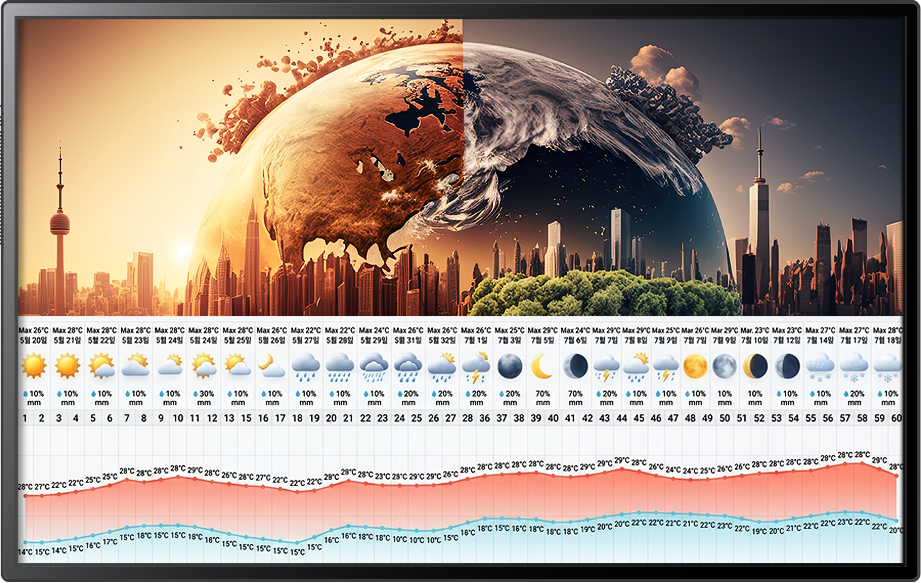
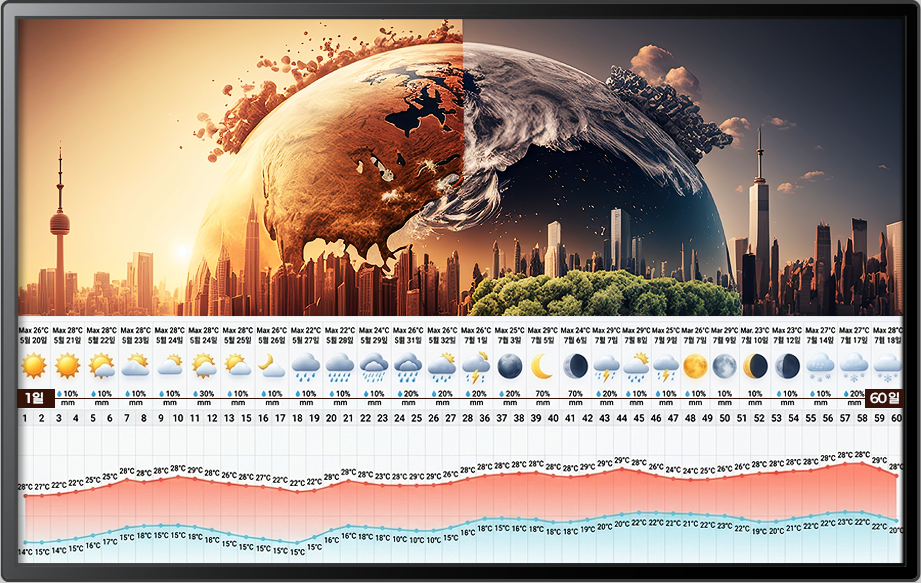
feat: 히어로 날씨 AI 팩토리 카피·가독성 개선, 아이돌 슬라이드 임시 비노출
- 주 카피를 "AI 인프라에 케이웨더 / 빅데이터를 결합한 / 세계 최초 날씨 AI 팩토리"로 교체
- 밝은 배경으로 교체한 뒤 흰 글자 대비가 2.3:1까지 떨어져 가독성 보강
  - 좌측 전체를 덮던 베일(0.62)을 가장자리 정리 수준(0.28)으로 낮춤
  - 대신 글자 박스를 따라다니는 국소 스크림(.hero__text::before) 신설
    · ellipse closest-side — 기본값(farthest-corner)은 박스 모서리에서
      알파가 남은 채 잘려 사각 테두리가 보인다
    · 9개 스톱으로 가우시안에 가깝게 falloff → 밴딩·덩어리감 제거
  - 제목 3겹 그림자, eyebrow 그림자 추가
  - 결과: 제목 영역 대비 최저 2.26:1 → 5.60:1 (평균 8.90:1)
- 모니터 이미지를 1일/60일 배지 들어간 버전으로 교체
- 날씨의 아이돌 슬라이드 임시 비노출(주석) — 컨펌 대기, 주석 해제로 원복

Changed region(s): [[0.0, 0.988, 1.0, 1.0], [0.9121, 0.6484, 1.0, 0.7101], [0.0, 0.6484, 0.0608, 0.7101]]

diff --git a/src/app/globals.css b/src/app/globals.css
@@ -400,12 +400,14 @@ img, svg { display: block; max-width: 100%; }
     linear-gradient(270deg, rgba(2,8,28,0.35) 0%, rgba(2,8,28,0.12) 32%, rgba(2,8,28,0) 55%),
     linear-gradient(180deg, rgba(0,0,0,0.28) 0%, rgba(0,0,0,0) 30%);
 }
-/* 신설(날씨 AI 팩토리) — 텍스트가 좌측이라 좌측·상단을 어둡게.
-   모니터(z-index 1)보다 아래라 모니터 화면은 흐려지지 않는다 */
+/* 신설(날씨 AI 팩토리) — 좌측·상단을 아주 옅게만 정리한다.
+   가독성의 본체는 텍스트 블록 뒤에 붙는 국소 스크림(.hero__text::before)이 맡는다.
+   좌측 전체를 어둡게 하면 배경 자체가 죽어 보여서, 여기서는 화면 가장자리
+   정리 수준(0.28)까지만 쓴다. 모니터(z-index 1)보다 아래라 화면은 안 흐려진다 */
 .hero__bg-image-veil--aif {
   background:
-    linear-gradient(90deg, rgba(2,8,28,0.45) 0%, rgba(2,8,28,0.18) 34%, rgba(2,8,28,0) 58%),
-    linear-gradient(180deg, rgba(0,0,0,0.28) 0%, rgba(0,0,0,0) 30%);
+    linear-gradient(90deg, rgba(2,8,28,0.28) 0%, rgba(2,8,28,0.10) 26%, rgba(2,8,28,0) 46%),
+    linear-gradient(180deg, rgba(0,0,0,0.26) 0%, rgba(0,0,0,0) 28%);
 }
 .hero__bg-image-veil--idol {
   background:
@@ -660,7 +662,40 @@ img, svg { display: block; max-width: 100%; }
 
 /* 신설(날씨 AI 팩토리) — 모니터가 우측을 채우므로 텍스트는 좌측 상단 */
 .hero__cols--aif { grid-template-columns: 1fr; align-items: start; }
-.hero__cols--aif .hero__text { justify-self: start; text-align: left; max-width: 680px; margin-top: calc(clamp(30px, 8vh, 88px) - 20px); margin-left: -20px; }
+.hero__cols--aif .hero__text { justify-self: start; text-align: left; max-width: 680px; margin-top: calc(clamp(30px, 8vh, 88px) - 20px); margin-left: -20px; position: relative; z-index: 0; }
+/* 텍스트 덩어리에만 붙는 국소 스크림.
+   배경 베일과 달리 글자 박스를 따라다녀서, 좌측 전체를 어둡게 하지 않고도
+   흰 글자 뒤 서버랙 무늬만 눌러준다. z-index:0 으로 만든 이 요소의 쌓임 맥락
+   안에서 -1 이므로 글자 뒤·배경 앞에 정확히 놓인다(배경까지 내려가지 않는다).
+   inset 음수값은 글자 박스보다 넉넉히 넓혀 경계가 눈에 띄지 않게 하는 여백 */
+.hero__cols--aif .hero__text::before {
+  content: "";
+  position: absolute;
+  /* 글자 박스보다 크게 잡아야 falloff 가 길어져 경계가 안 보인다.
+     좁으면 글자 뒤에만 뭉쳐 조명 얼룩처럼 읽히므로 화면 가장자리까지 넉넉히 민다 */
+  inset: -190px -330px -160px -280px;
+  z-index: -1;
+  pointer-events: none;
+  /* ⚠ closest-side 를 반드시 붙인다.
+     크기를 안 쓰면 기본값이 farthest-corner 라 타원이 박스보다 커지고,
+     박스 모서리에서 알파가 0.2~0.3 인 채로 잘려 사각 테두리가 보인다.
+     closest-side 는 타원이 박스 네 변에 정확히 내접해 100% 스톱(알파 0)이
+     경계와 맞아떨어지므로 잘리는 선이 생기지 않는다. */
+  /* 스톱을 촘촘히 나눠 가우시안에 가깝게 떨어뜨린다 — 스톱이 적으면 구간마다
+     기울기가 꺾여 동심원 띠(밴딩)가 눈에 띄고 '덩어리'로 읽힌다 */
+  background: radial-gradient(
+    ellipse closest-side at 50% 50%,
+    rgba(2,8,28,0.52) 0%,
+    rgba(2,8,28,0.50) 25%,
+    rgba(2,8,28,0.45) 45%,
+    rgba(2,8,28,0.38) 60%,
+    rgba(2,8,28,0.29) 72%,
+    rgba(2,8,28,0.20) 82%,
+    rgba(2,8,28,0.12) 90%,
+    rgba(2,8,28,0.05) 96%,
+    rgba(2,8,28,0) 100%
+  );
+}
 
 .hero__eyebrow {
   font-family: var(--font-display);
@@ -692,14 +727,23 @@ img, svg { display: block; max-width: 100%; }
 /* 배경이 청회색이라 하늘색은 묻히고 갈색은 튄다. 파랑에서 벗어나되 이질감이 적은
    민트를 쓴다 — 베일 합성 배경(#5D626F) 대비 4.90:1 로 그림자 없이도 잘 읽힌다.
    다른 슬라이드 하늘색(#53D9FF)과 색상각이 25° 차이라 계열은 유지된다. */
-.hero--aif .hero__eyebrow { color: #69FEE1; font-weight: 500; }
+.hero--aif .hero__eyebrow {
+  color: #69FEE1;
+  font-weight: 500;
+  text-shadow: 0 1px 2px rgba(3,12,32,0.55), 0 3px 14px rgba(3,12,32,0.45);
+}
 /* 3줄 카피라 AI환기청정·폭염·에어로봇과 같은 축소 구간을 쓴다(기본 48px → 45px).
    배경이 서버랙 패턴이라 대비(3.6~6.9:1)는 충분해도 글자가 무늬에 섞여 읽힌다.
    좁은 그림자로 획을 또렷하게, 넓고 옅은 그림자로 글자 주변을 눌러 분리한다. */
 .hero--aif .hero__title {
   color: #fff;
   font-size: clamp(31px, 3.6vw, 45px);
-  text-shadow: 0 1px 2px rgba(3,12,32,0.38), 0 4px 18px rgba(3,12,32,0.42);
+  /* 3겹: 좁고 진한 그림자로 획을 세우고, 중간 그림자로 무늬를 지우고,
+     넓고 옅은 그림자로 글자 덩어리 주변을 눌러 배경에서 떼어낸다 */
+  text-shadow:
+    0 1px 2px rgba(3,12,32,0.60),
+    0 2px 9px rgba(3,12,32,0.50),
+    0 10px 32px rgba(3,12,32,0.42);
 }
 .hero--ai .hero__eyebrow { color: #0047BA; font-weight: 500; }
 .hero--ai .hero__eyebrow-en { font-size: 25px; vertical-align: top; }

diff --git a/src/components/Hero.tsx b/src/components/Hero.tsx
@@ -38,7 +38,7 @@ const HERO_SLIDES: Slide[] = [
        바로가기는 기상데이터 페이지의 세 번째 탭(날씨 AI 팩토리)으로 보낸다. */
     key: "aif",
     eyebrow: "날씨 AI 팩토리",
-    title: "케이웨더의 빅데이터와\n엔비디아 AI 인프라를 결합한\n세계 최초 날씨 AI 팩토리",
+    title: "AI 인프라에 케이웨더\n빅데이터를 결합한\n세계 최초 날씨 AI 팩토리",
     bg: "/assets/hero_Aifactory_bg02.jpg",
     cta: { label: "바로가기", href: "/data/weather?tab=aifactory" },
   },
@@ -64,13 +64,20 @@ const HERO_SLIDES: Slide[] = [
     bg: "/assets/hero_robot.jpg?v=6",
     cta: { label: "바로가기", href: "/solution/airrobot" },
   },
-  {
-    key: "idol",
-    eyebrow: "날씨의 아이돌",
-    title: "오늘의 날씨를\n음악으로 전달합니다",
-    bg: "/assets/hero_04_re.jpg?v=2",
-    cta: { label: "바로가기", href: "https://weatheridols.ai/" },
-  },
+  /* ⏸ 2026-08-20 임시 비노출 (대표님 컨펌 대기) — 날씨의 아이돌 슬라이드.
+     ▶ 원복: 아래 주석만 해제하면 그대로 돌아온다. 이 블록 외에는 아무것도 지우지
+       않았다 — SlideKey 의 "idol", 물방울 연출(s.key === "idol"), globals.css 의
+       .hero--idol / .hero__bg-image-veil--idol / .hero__water*, 배경 이미지
+       (hero_04_re.jpg), water_01~03.png 전부 그대로 남아 있다.
+     ※ 슬라이드 수(도트·자동재생 순환)는 HERO_SLIDES.length 로 계산하므로
+       주석 처리만으로 7개 → 6개가 자동 반영된다. 따로 고칠 곳 없다. */
+  // {
+  //   key: "idol",
+  //   eyebrow: "날씨의 아이돌",
+  //   title: "오늘의 날씨를\n음악으로 전달합니다",
+  //   bg: "/assets/hero_04_re.jpg?v=2",
+  //   cta: { label: "바로가기", href: "https://weatheridols.ai/" },
+  // },
 ];
 
 const SLIDE_MS = 7000;
